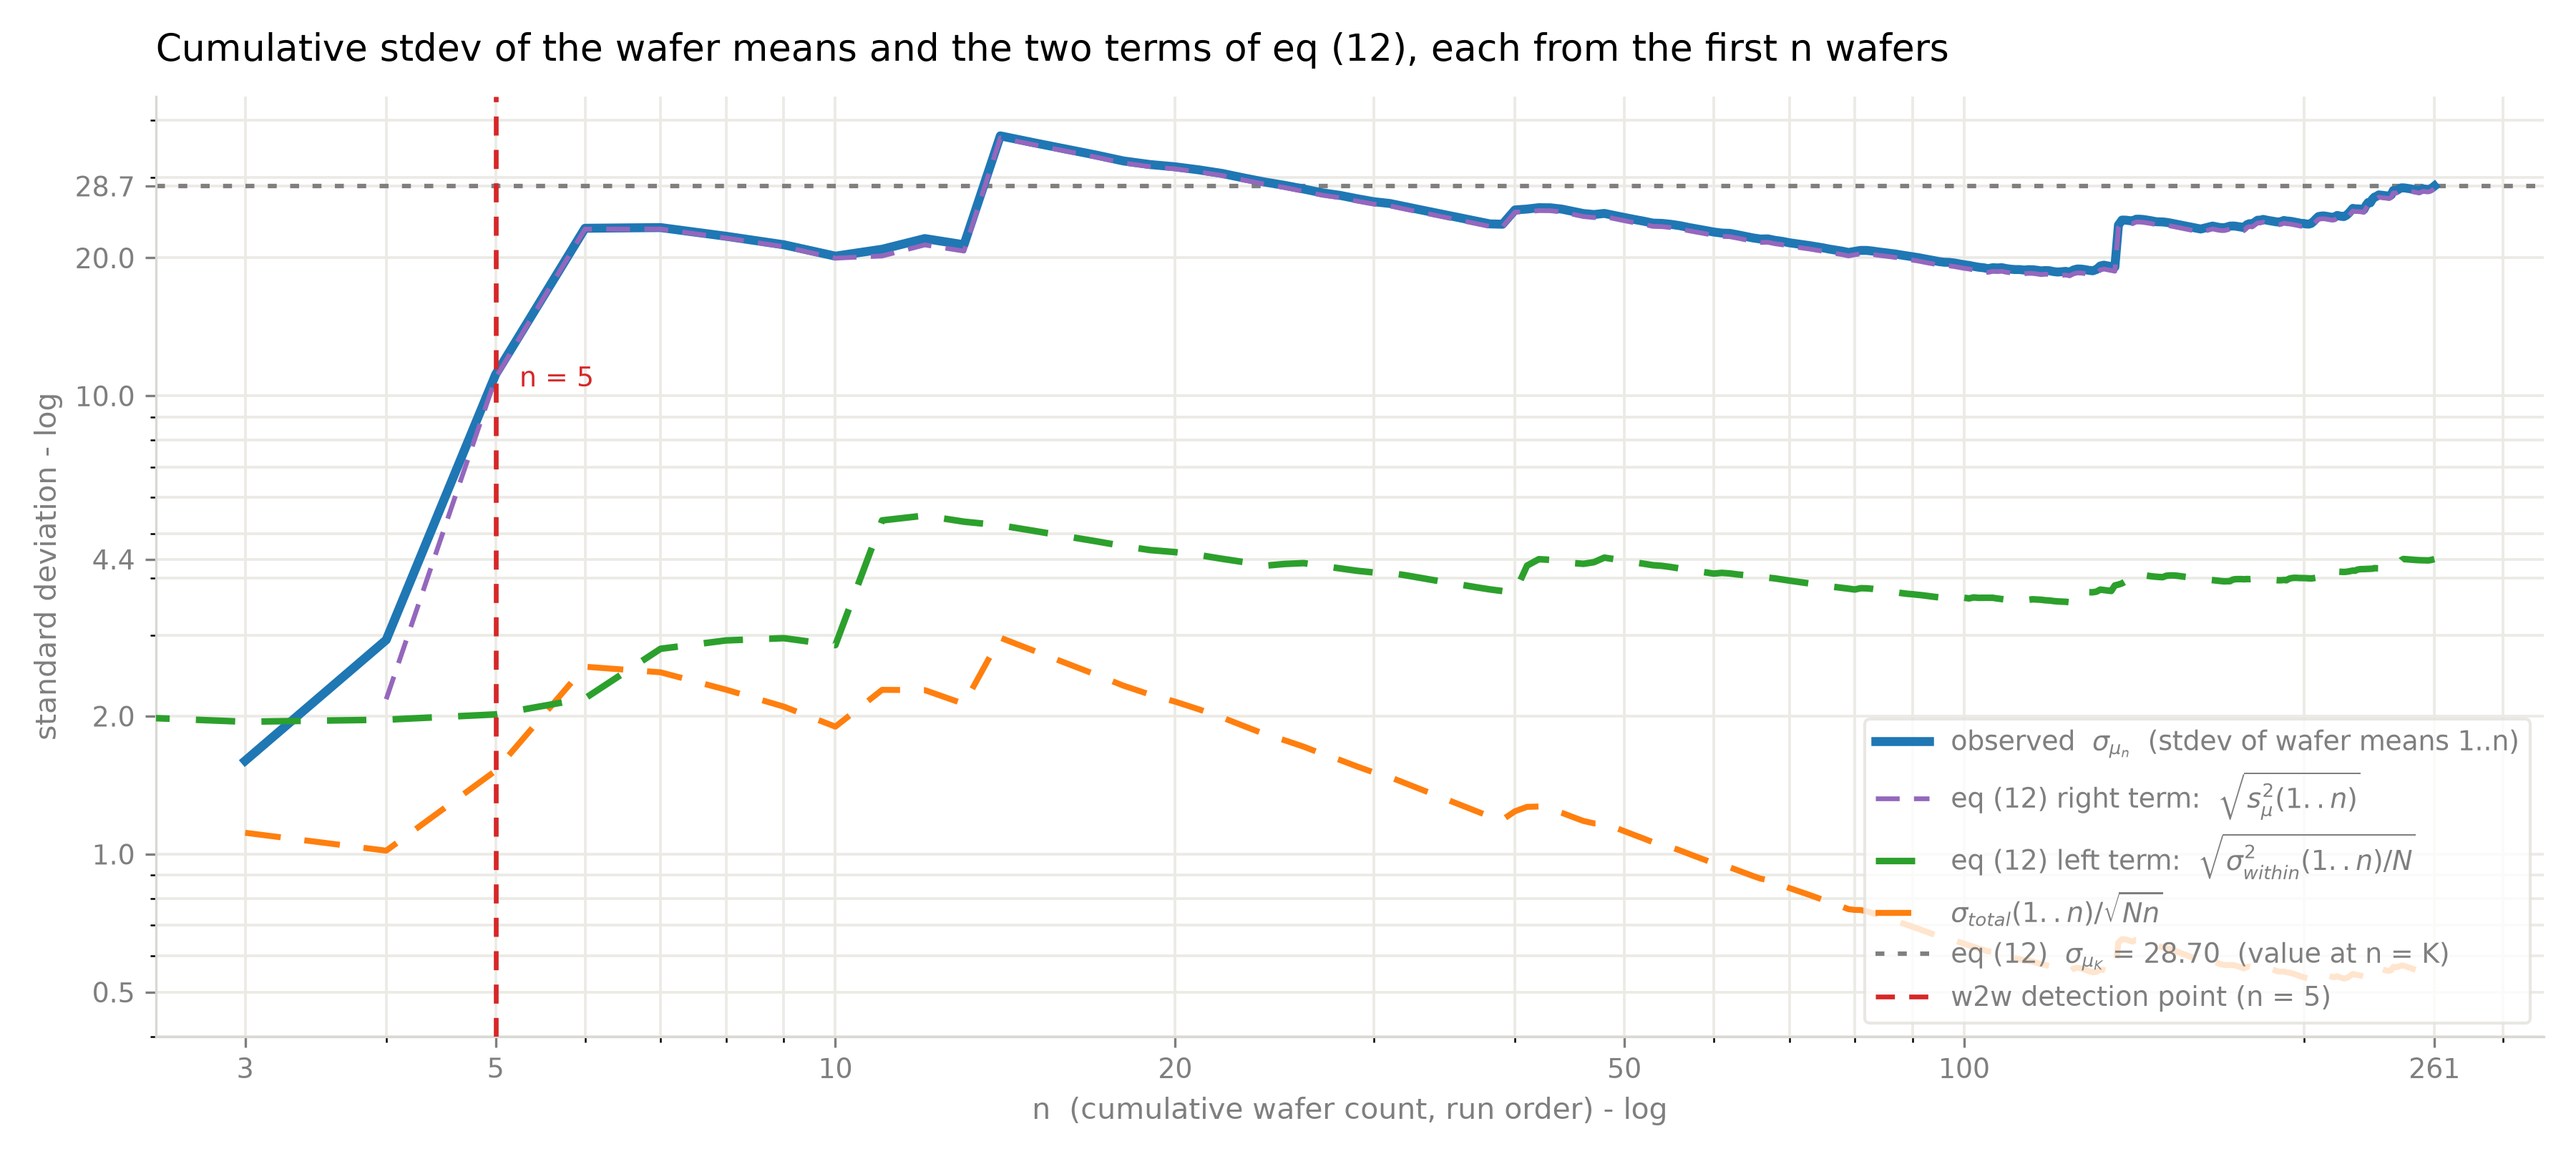
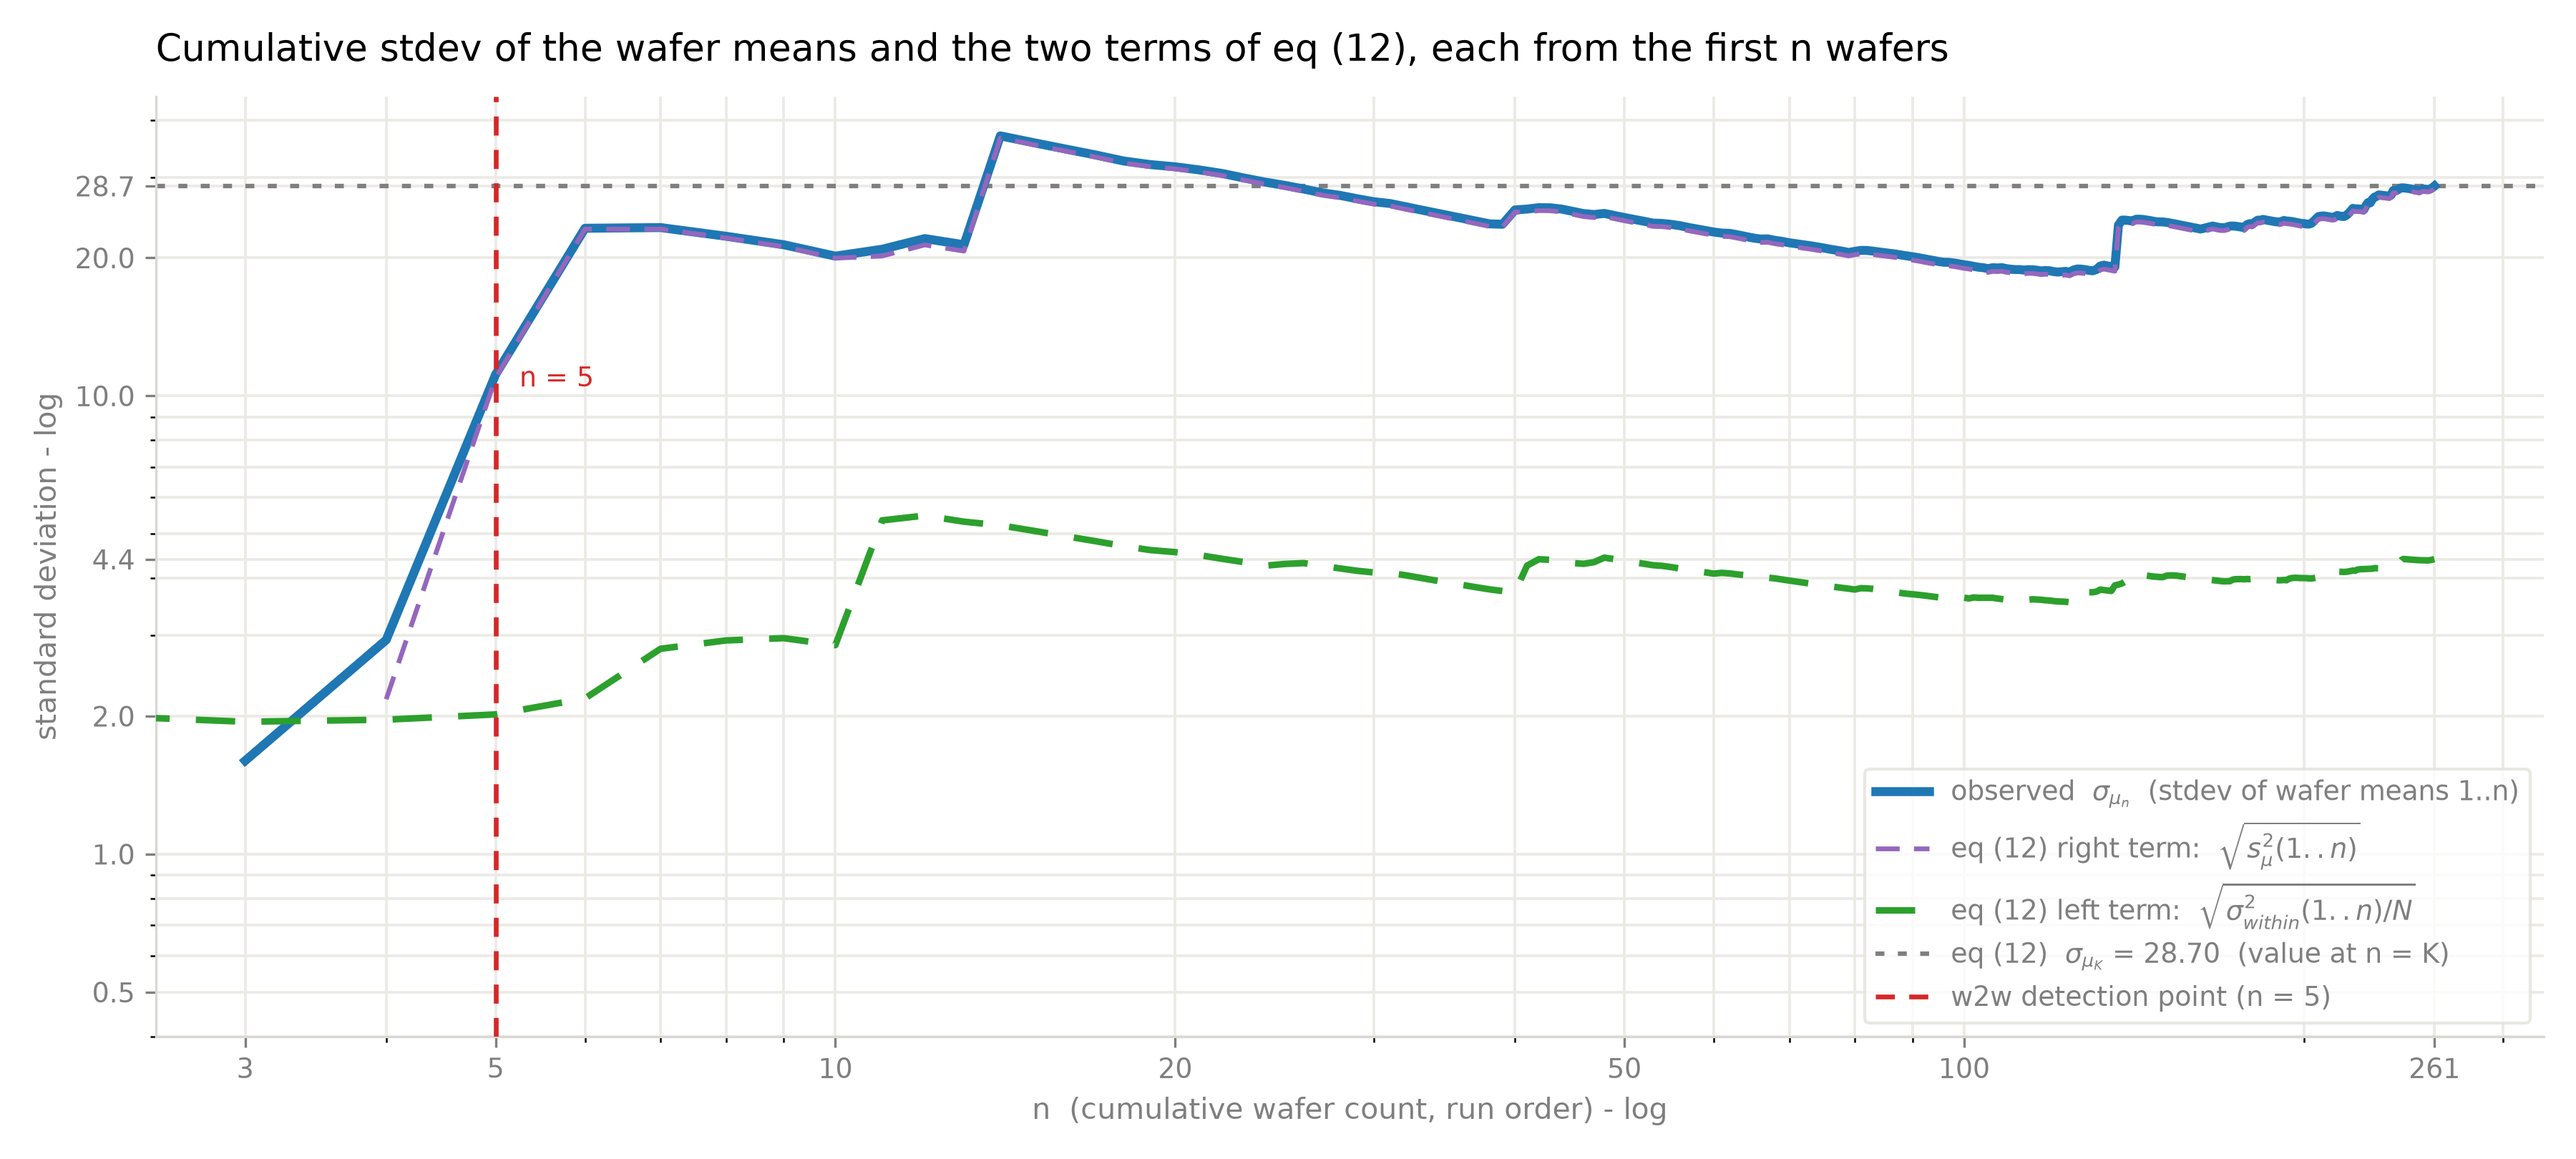
Drop the sigma_total over root Nn trace from Fig 2
The curve belonged to neither term of equation (12) and the body never
read a value off it, so Fig 2 now carries the observed spread, the two
terms, the value at n = K and the detection point.

Claude-Session: https://claude.ai/code/session_01WQDM9QvCLp8khNXC3e7tfA

diff --git a/EDA/Variability/WiW-W2W/wiw_w2w_anova.py b/EDA/Variability/WiW-W2W/wiw_w2w_anova.py
@@ -17,10 +17,11 @@ Changelog:
 - 0.10.0: take the components over an expanding window instead of a sliding one.
 - 0.11.0: screen each wafer against the expanding within-wafer component of the wafers before it.
 - 0.12.0: keep the flagged wafers out of the running baseline and draw the screen instead of the components.
+- 0.13.0: drop the sigma_total over root Nn trace from the cumulative figure.
 """
 
 __author__ = 'yRocket'
-__version__ = "0.12.4.2026.9.21"
+__version__ = "0.13.0.2026.9.21"
 
 import argparse
 import pathlib
@@ -343,8 +344,6 @@ class WaferMeasurements:
                   label=r"eq (12) right term:  $\sqrt{s_\mu^2(1..n)}$")
         axes.plot(self.order, left_term, color=COLOR_LEFT_TERM, lw=2.2, ls=(0, (6, 4)), zorder=5,
                   label=r"eq (12) left term:  $\sqrt{\sigma_{within}^2(1..n)/N}$")
-        axes.plot(self.order, terms['sigma_total'] / np.sqrt(self.site_count * self.order), color=COLOR_TREND,
-                  lw=2.0, ls=(0, (6, 4)), zorder=3, label=r"$\sigma_{total}(1..n)/\sqrt{Nn}$")
         axes.axhline(observed[-1], color=COLOR_INK, lw=1.5, ls=(0, (2, 3)), zorder=2,
                      label=r"eq (12)  $\sigma_{\mu_K}$ = %.2f  (value at n = K)" % observed[-1])
         axes.axvline(detection, color=COLOR_MARK, lw=1.6, ls=(0, (4, 3)), zorder=7,
